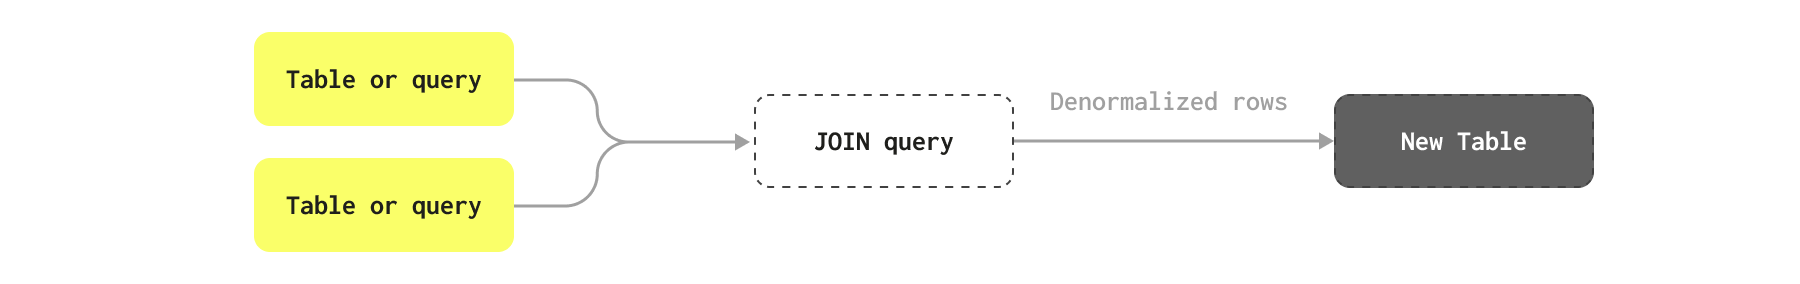
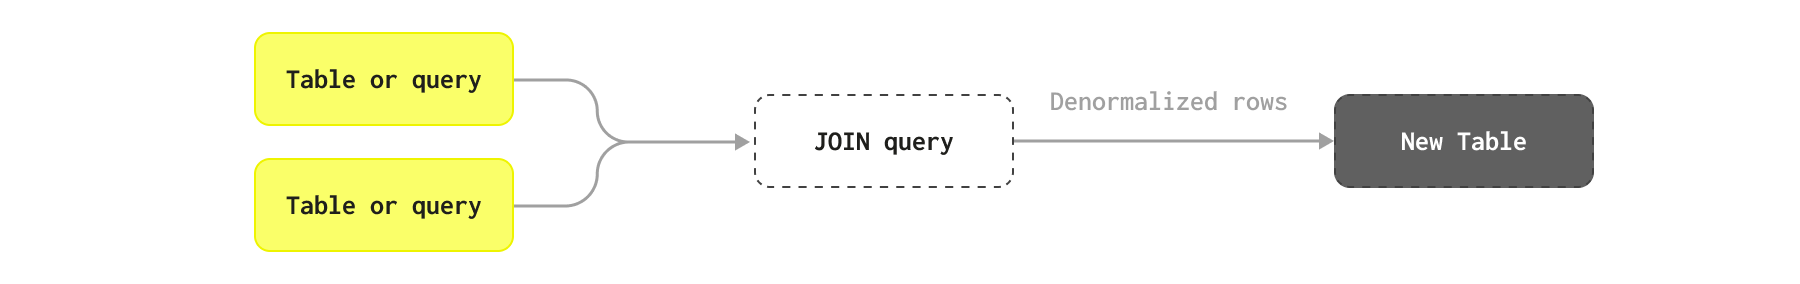
Update image sizes and backgrounds

diff --git a/docs/en/dictionary/index.md b/docs/en/dictionary/index.md
@@ -23,7 +23,7 @@ Dictionaries can be used to speed up a specific type of `JOIN`: the [`LEFT ANY` 
 <img src={require('./images/dictionary-left-any-join.png').default}    
   class='image'
   alt='Using Dictionary with LEFT ANY JOIN'
-  style={{width: '300px'}} />
+  style={{width: '300px', background: 'none'}} />
 
 If this is the case, ClickHouse can exploit the dictionary to perform a [Direct Join](https://clickhouse.com/blog/clickhouse-fully-supports-joins-direct-join-part4#direct-join). This is ClickHouse's fastest join algorithm and is applicable when the underlying [table engine](/en/engines/table-engines) for the right-hand side table supports low-latency key-value requests. ClickHouse has three table engines providing this: [Join](/en/engines/table-engines/special/join) (that is basically a pre-calculated hash table), [EmbeddedRocksDB](/en/engines/table-engines/integrations/embedded-rocksdb) and [Dictionary](/en/engines/table-engines/special/dictionary). We will describe the dictionary-based approach, but the mechanics are the same for all three engines.
 

diff --git a/docs/en/data-modeling/denormalization.md b/docs/en/data-modeling/denormalization.md
@@ -18,7 +18,7 @@ This process reduces the need for complex joins at query time and can significan
 <img src={require('./images/denormalization-diagram.png').default}
   class='image'
   alt='Denormalization in ClickHouse'
-  style={{width: '100%'}} />
+  style={{width: '100%', background: 'none' }} />
 
 <br />
 
@@ -134,7 +134,7 @@ Now let's consider our `Users` and `Badges`:
 <img src={require('./images/denormalization-schema.png').default}
   class='image'
   alt='Users and Badges schema'
-  style={{width: '100%'}} />
+  style={{width: '100%', background: 'none' }} />
 
 <p></p>
 We first insert the data with the following command:

diff --git a/docs/en/materialized-view/refreshable-materialized-view.md b/docs/en/materialized-view/refreshable-materialized-view.md
@@ -14,7 +14,7 @@ Refreshable materialized views can be considered conceptually similar to materia
 <img src={require('./images/refreshable-materialized-view-diagram.png').default}
   class='image'
   alt='Refreshable materialized view diagram'
-  style={{width: '100%'}} />
+  style={{width: '100%', background: 'none' }} />
 
 ## When should refreshable materialized views be used?
 

diff --git a/docs/en/data-modeling/schema-design.md b/docs/en/data-modeling/schema-design.md
@@ -16,7 +16,7 @@ For the examples in this guide, we use a subset of the Stack Overflow dataset. T
 <img src={require('./images/stackoverflow-schema.png').default}    
   class='image'
   alt='Stack Overflow Schema'
-  style={{width: '600px'}} />
+  style={{width: '800px', background: 'none'}} />
 
 <br />
 

diff --git a/docs/en/migrations/postgres/dataset.md b/docs/en/migrations/postgres/dataset.md
@@ -17,7 +17,7 @@ As an example dataset to show a typical migration from Postgres to ClickHouse, w
 <img src={require('../images/postgres-stackoverflow-schema.png').default}    
   class="image"
   alt="NEEDS ALT"
-  style={{width: '800px'}} />
+  style={{width: '1000px', background: 'none'}} />
 
 <br />
 
